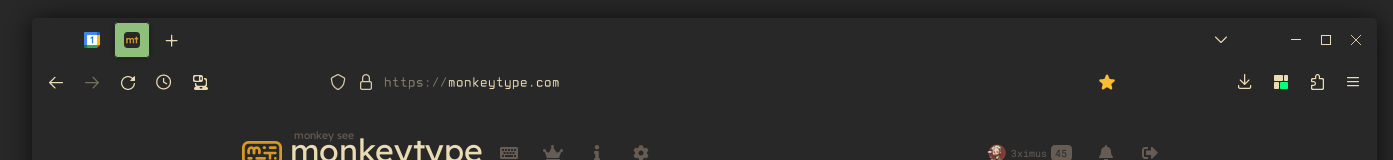
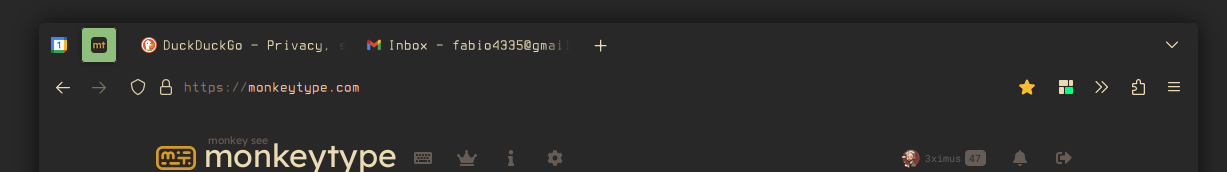
fix more firefox settings

diff --git a/firefox/userChrome.css b/firefox/userChrome.css
@@ -1,7 +1,23 @@
+/* remove folder icons from bookmarks */
 #personal-bookmarks .bookmark-item[container="true"] .toolbarbutton-icon {
   display: none !important;
 }
 
+/* remove title bar space between tab list and window buttons */
+.titlebar-spacer {
+  display: none;
+}
+
+.titlebar-button {
+  display: none !important;
+}
+
+/* remove close button from tabs */
+.tabbrowser-tab:not([pinned]) .tab-close-button {
+  display: none !important;
+}
+
+/* change color of urls on address bar dropdown popup */
 .urlbarView-url {
   color: #8ec07c !important;
   font-weight: bold;

diff --git a/README.md b/README.md
@@ -173,10 +173,11 @@ I've used [firefox color](https://color.firefox.com/?theme=XQAAAAKOAgAAAAAAAABBq
 
 ## More Screenshots
 
-![9](screenshots/complete1.png)
-vim, htop and ranger (all in tmux sessions)
-
 ![10](screenshots/slack.png)
-My slack style hack
+My slack style hack with the follwing sidebar settings:
+
+```
+#282828,#232527,#3C3836,#EBDBB2,#3C3836,#EBDBB2,#EBDBB2,#3C3836,#282828,#EBDBB2
+```
 
 
